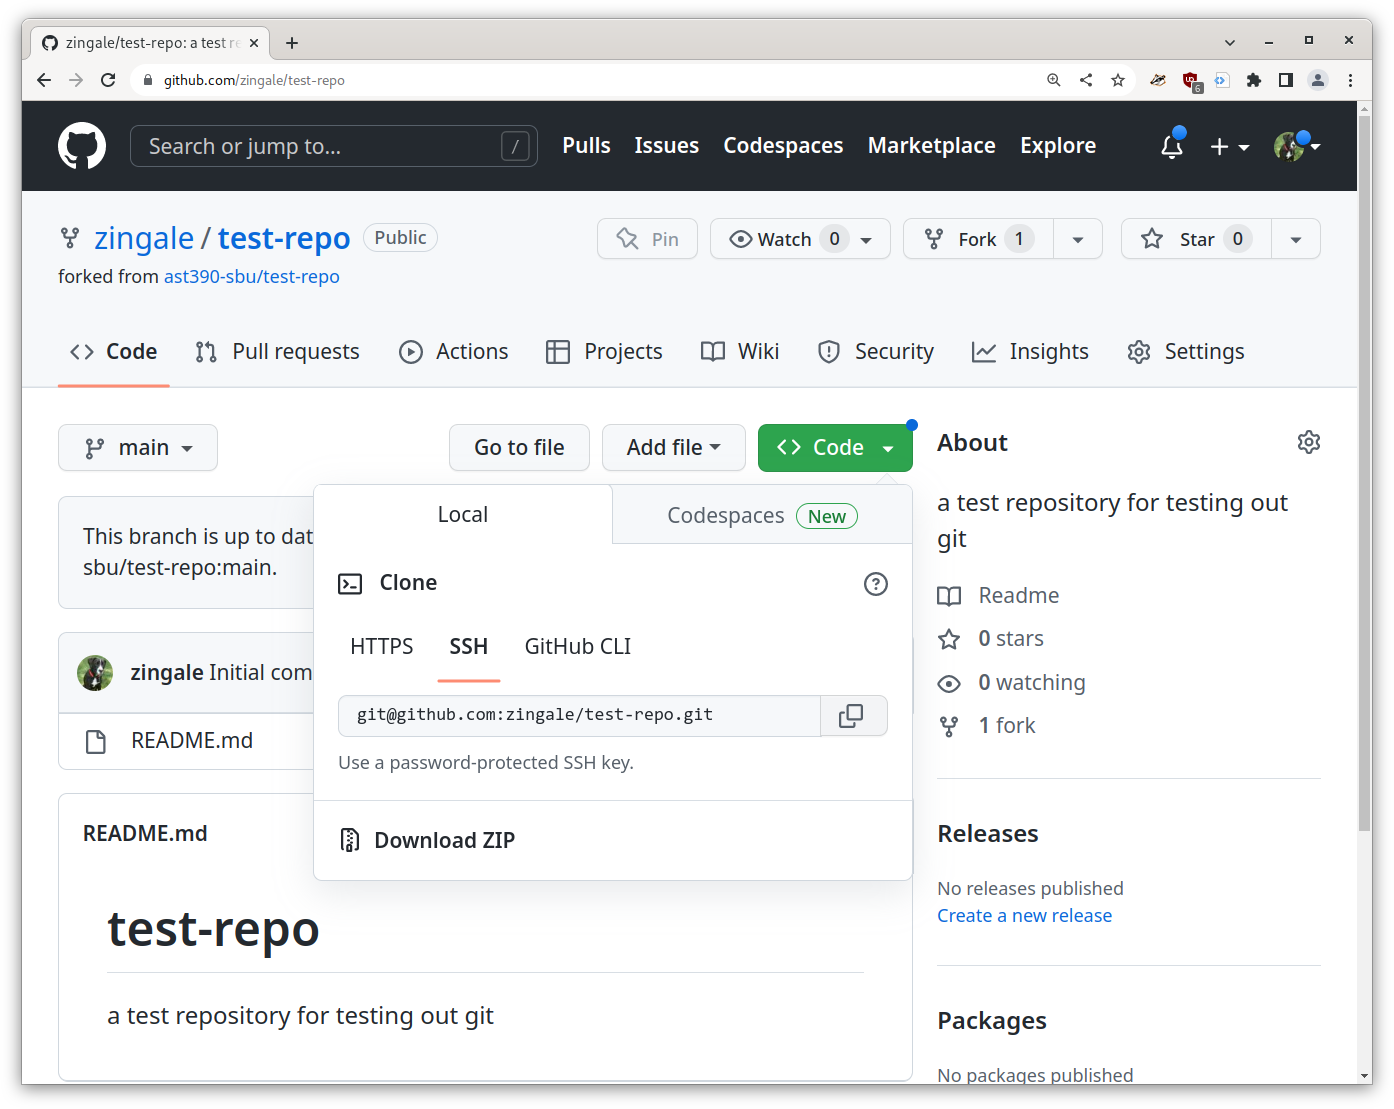
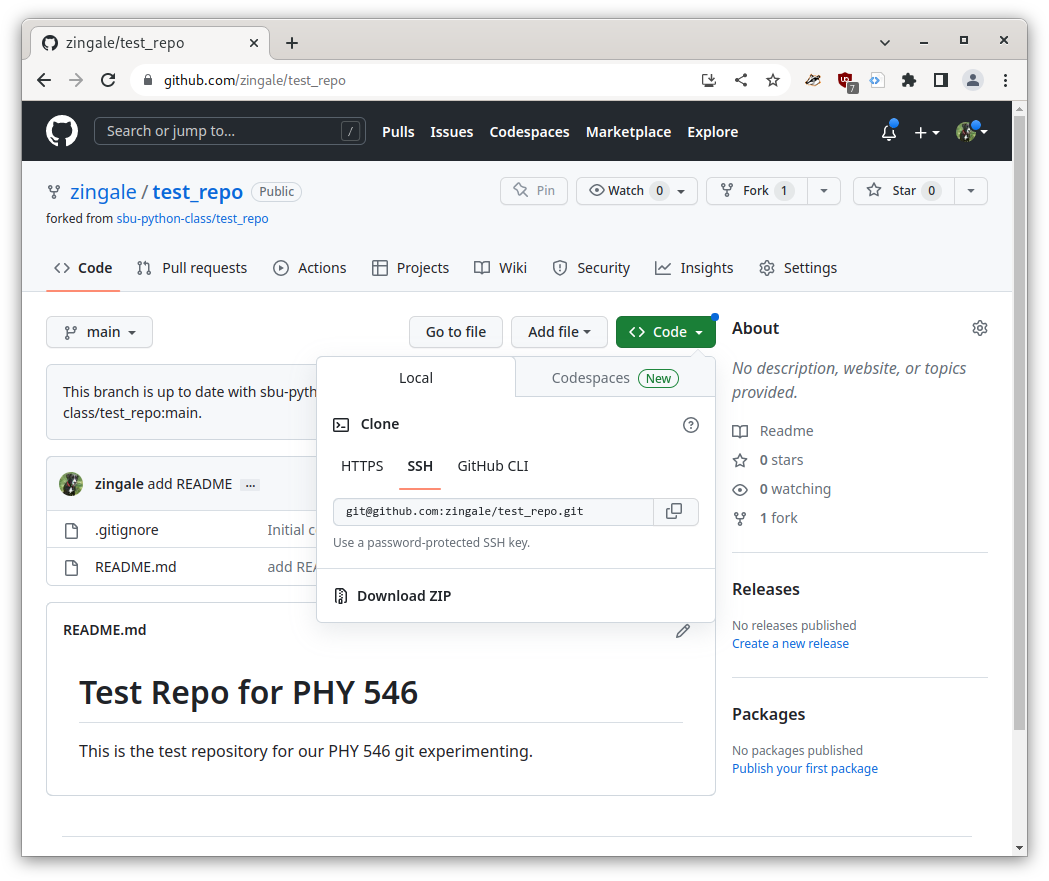
update notes

diff --git a/content/git/pull-requests.md b/content/git/pull-requests.md
@@ -7,9 +7,9 @@ around pulls.
 
 How do we contribute to a project that we don't own?
 
-Here's a github *organization* for our class: https://github.com/ast390-sbu
+Here's a github *organization* for our class: https://github.com/sbu-python-class
 
-and here's a simple repo in this organization: https://github.com/ast390-sbu/test-repo
+and here's a simple repo in this organization: https://github.com/sbu-python-class/test_repo
 
 ```{note}
 An organization is meant to be used by a collection of developers who
@@ -20,8 +20,8 @@ managing who can do different things to the repos under its control.
 Let's clone this repo:
 
 ```bash
-git clone git@github.com:phy504-sbu/test-repo.git
-cd test-repo
+git clone git@github.com:sbu-python-class/test_repo.git
+cd test_repo
 ```
 
 Now, let's each try to add a file of the form *username.txt* containing
@@ -69,7 +69,7 @@ Now click on the *code* button and copy the SSH location.
 We want to add this fork as a new remote:
 
 ```bash
-git remote add myfork git@github.com:zingale/test-repo.git
+git remote add myfork git@github.com:zingale/test_repo.git
 ```
 
 (again, make sure you replace that with the link to your repo).
